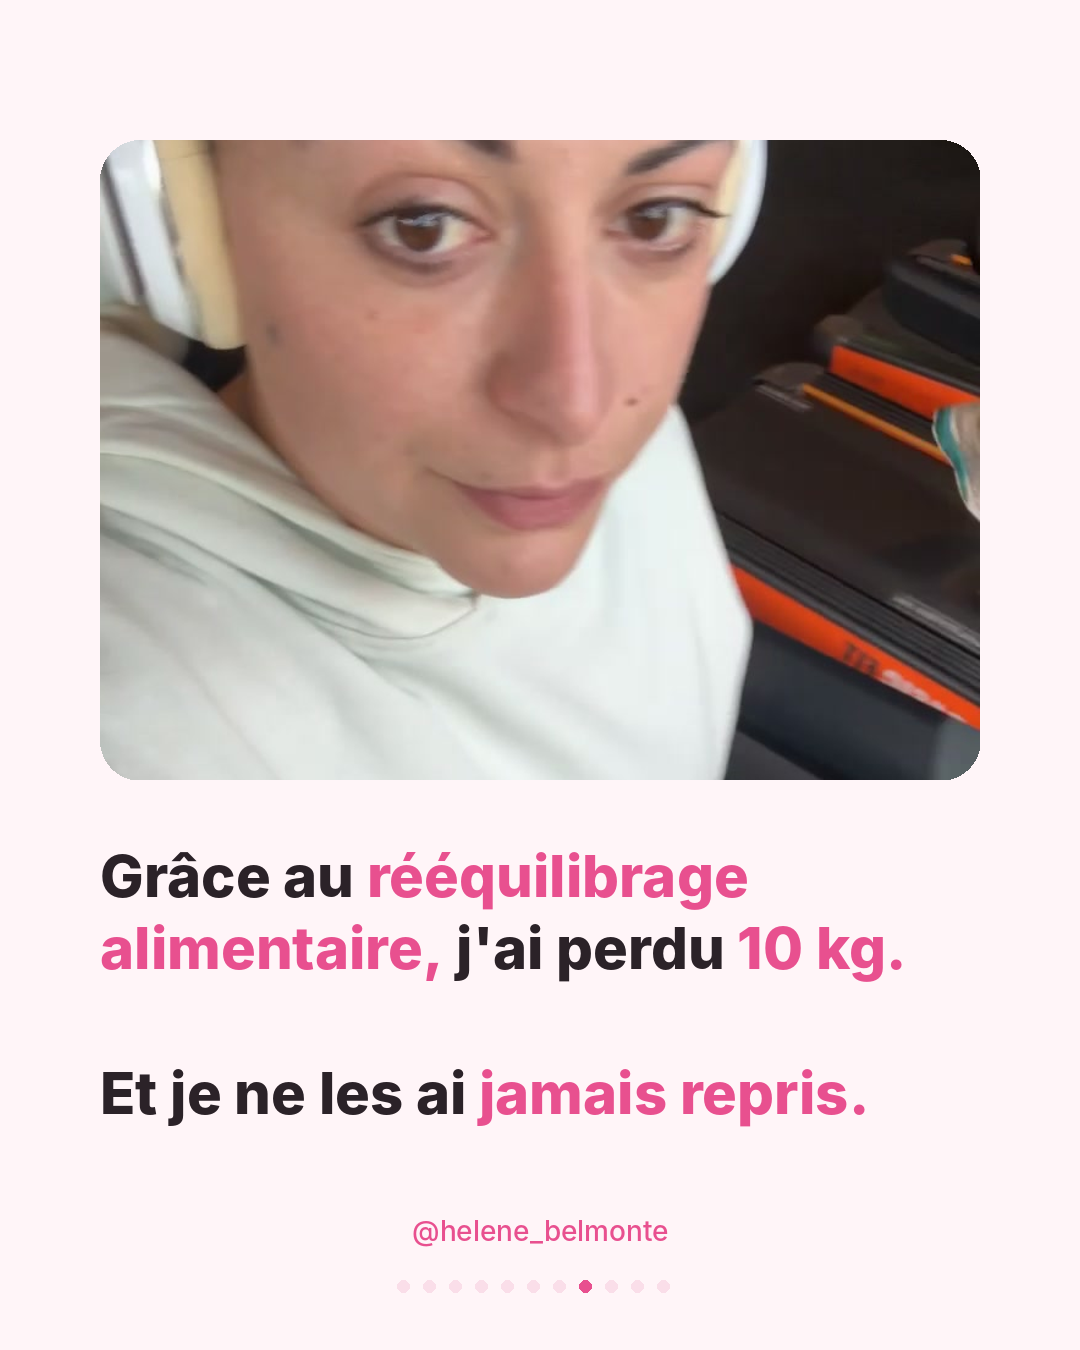
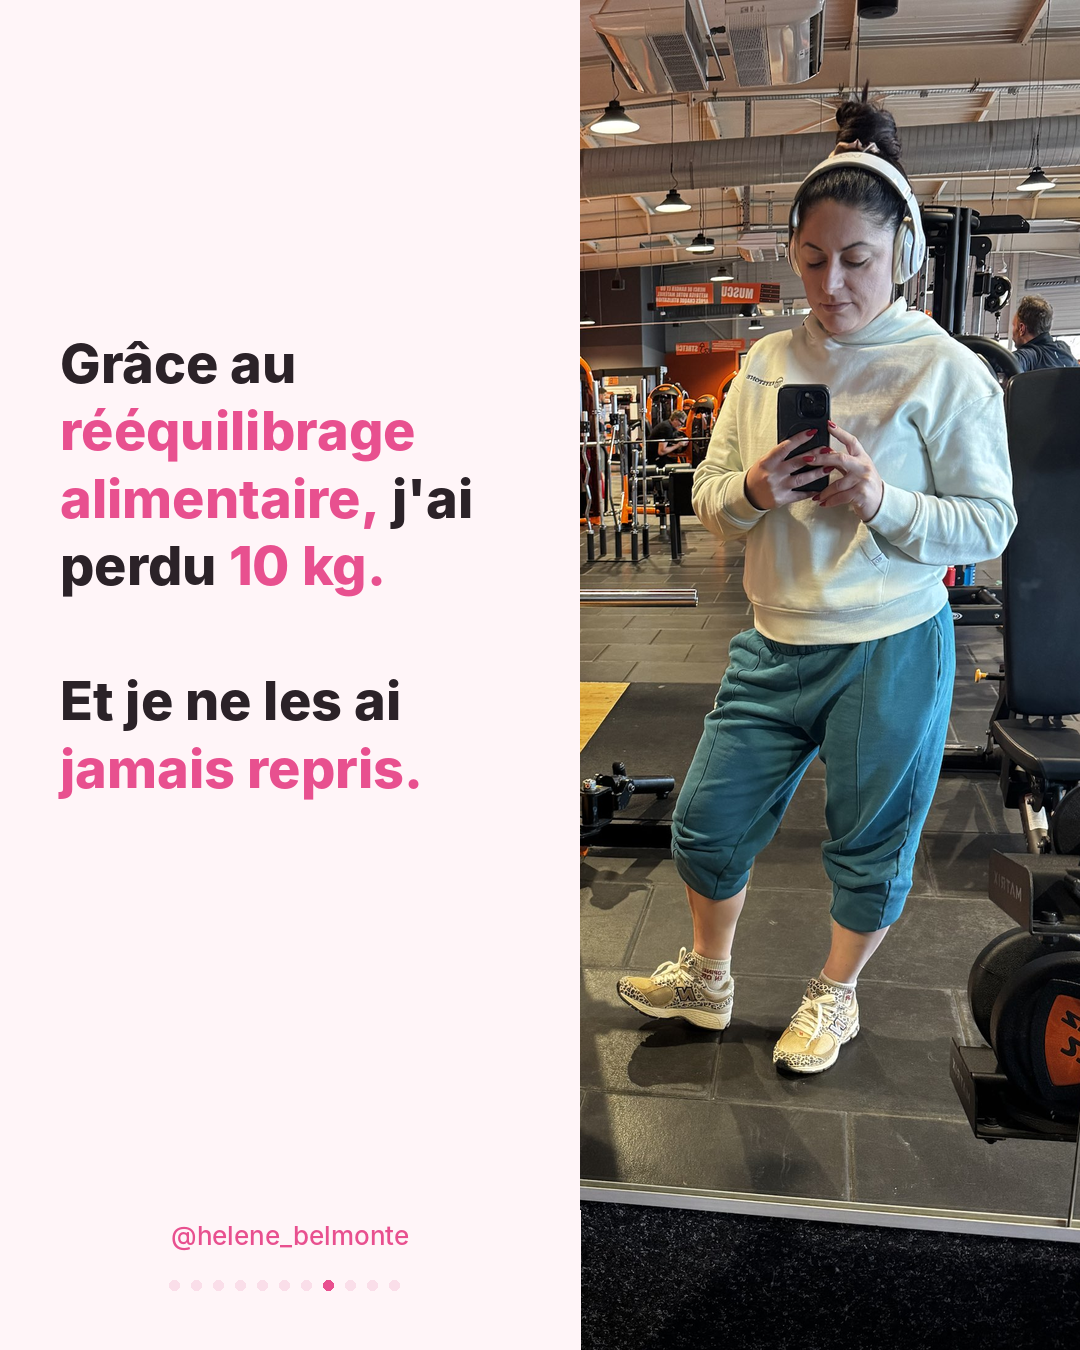
Carrousel : nouvelle photo slide 8
Claude-Session: https://claude.ai/code/session_01Qu7Kbk7XztmX7tXcsqwXcr

diff --git a/scripts/carrousel_mon_histoire.py b/scripts/carrousel_mon_histoire.py
@@ -102,11 +102,20 @@ for i, (kind, a, b) in enumerate(slides):
             d.text((W / 2, y), t, font=XB(78), fill=WHITE, anchor="mm"); y += 100
     elif kind == "photo":
         im, d = base(i, n)
-        ph = Image.open(os.path.join(os.path.dirname(OUT), "photo.jpg"))
-        ph = ImageOps.fit(ph, (880, 640), centering=(0.5, 0.15))
-        mask = Image.new("L", ph.size, 0); ImageDraw.Draw(mask).rounded_rectangle((0, 0, *ph.size), 40, fill=255)
-        im.paste(ph, (100, 140), mask)
-        draw_rich(d, b, XB(58), 840, maxw=880, lh=1.25)
+        ph = ImageOps.exif_transpose(Image.open(os.path.join(os.path.dirname(OUT), "photo.jpg")).convert("RGB"))
+        pw, phh = ph.size
+        PW = 500; cw = int(pw * 0.42); ch = int(cw * H / PW)
+        x0 = int(pw * 0.47); y0 = 0
+        ph = ph.crop((x0, y0, x0 + cw, y0 + ch)).resize((PW, H), Image.LANCZOS)
+        im.paste(ph, (W - PW, 0))
+        d = ImageDraw.Draw(im)
+        # redraw handle/dots on the left column
+        d.rectangle((0, H - 140, W - PW, H), fill=CREAM)
+        tot = n * 22; xx = ((W - PW) - tot) / 2
+        for k in range(n):
+            d.ellipse((xx, H - 70, xx + 10, H - 60), fill=PINK if k == i else SOFT); xx += 22
+        d.text(((W - PW) / 2, H - 115), "@helene_belmonte", font=RG(26), fill=PINK, anchor="mm")
+        draw_rich(d, b, XB(54), 330, maxw=W - PW - 120, lh=1.25, x0=60)
     elif kind == "cta":
         im, d = base(i, n, PINK)
         d.text((W / 2, 300), "Tu te reconnais ?", font=XB(80), fill=WHITE, anchor="mm")
